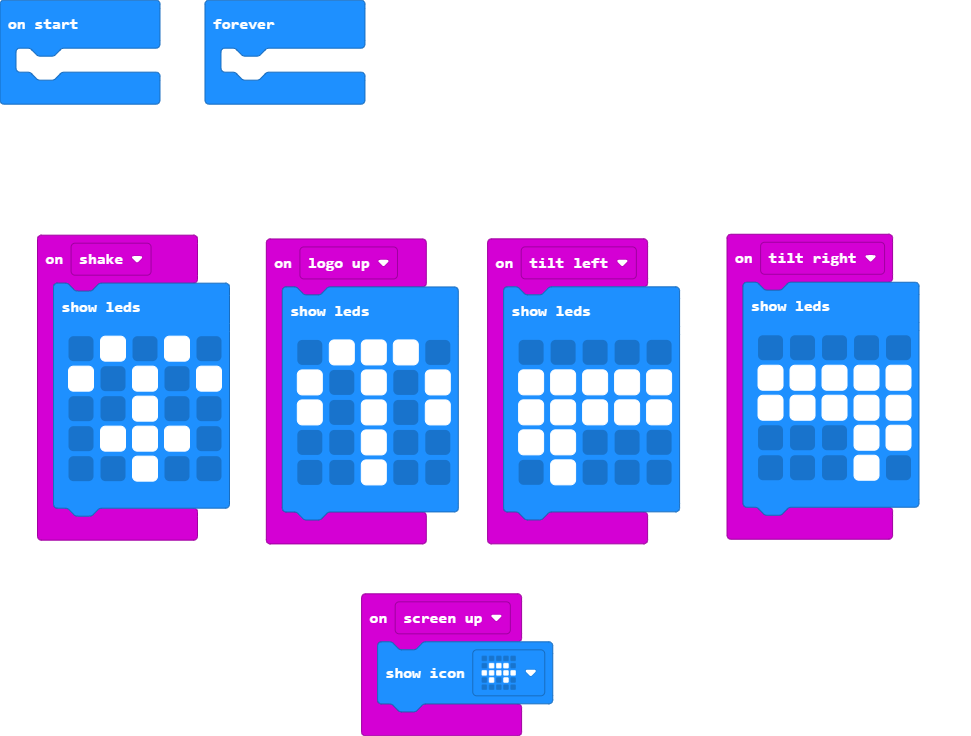
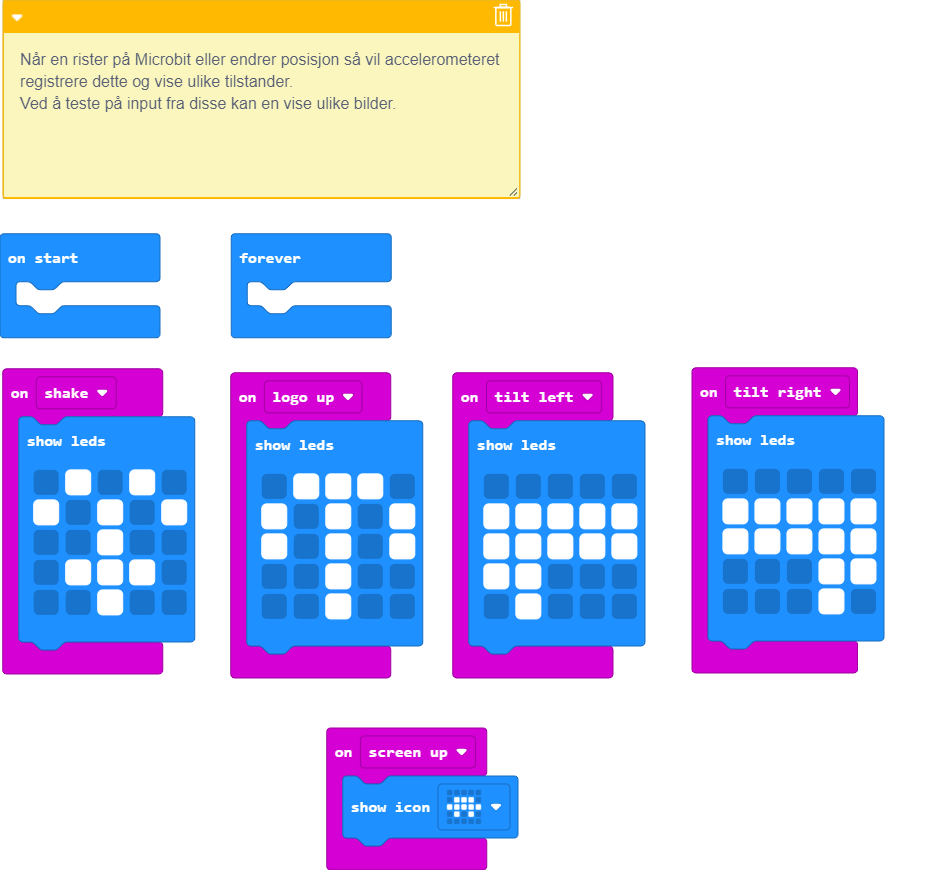
Levert

diff --git a/main.ts b/main.ts
@@ -1,3 +1,8 @@
+/**
+ * Når en rister på Microbit eller endrer posisjon så vil accelerometeret registrere dette og vise ulike tilstander.
+ * 
+ * Ved å teste på input fra disse kan en vise ulike bilder.
+ */
 input.onGesture(Gesture.LogoUp, function () {
     basic.showLeds(`
         . # # # .
